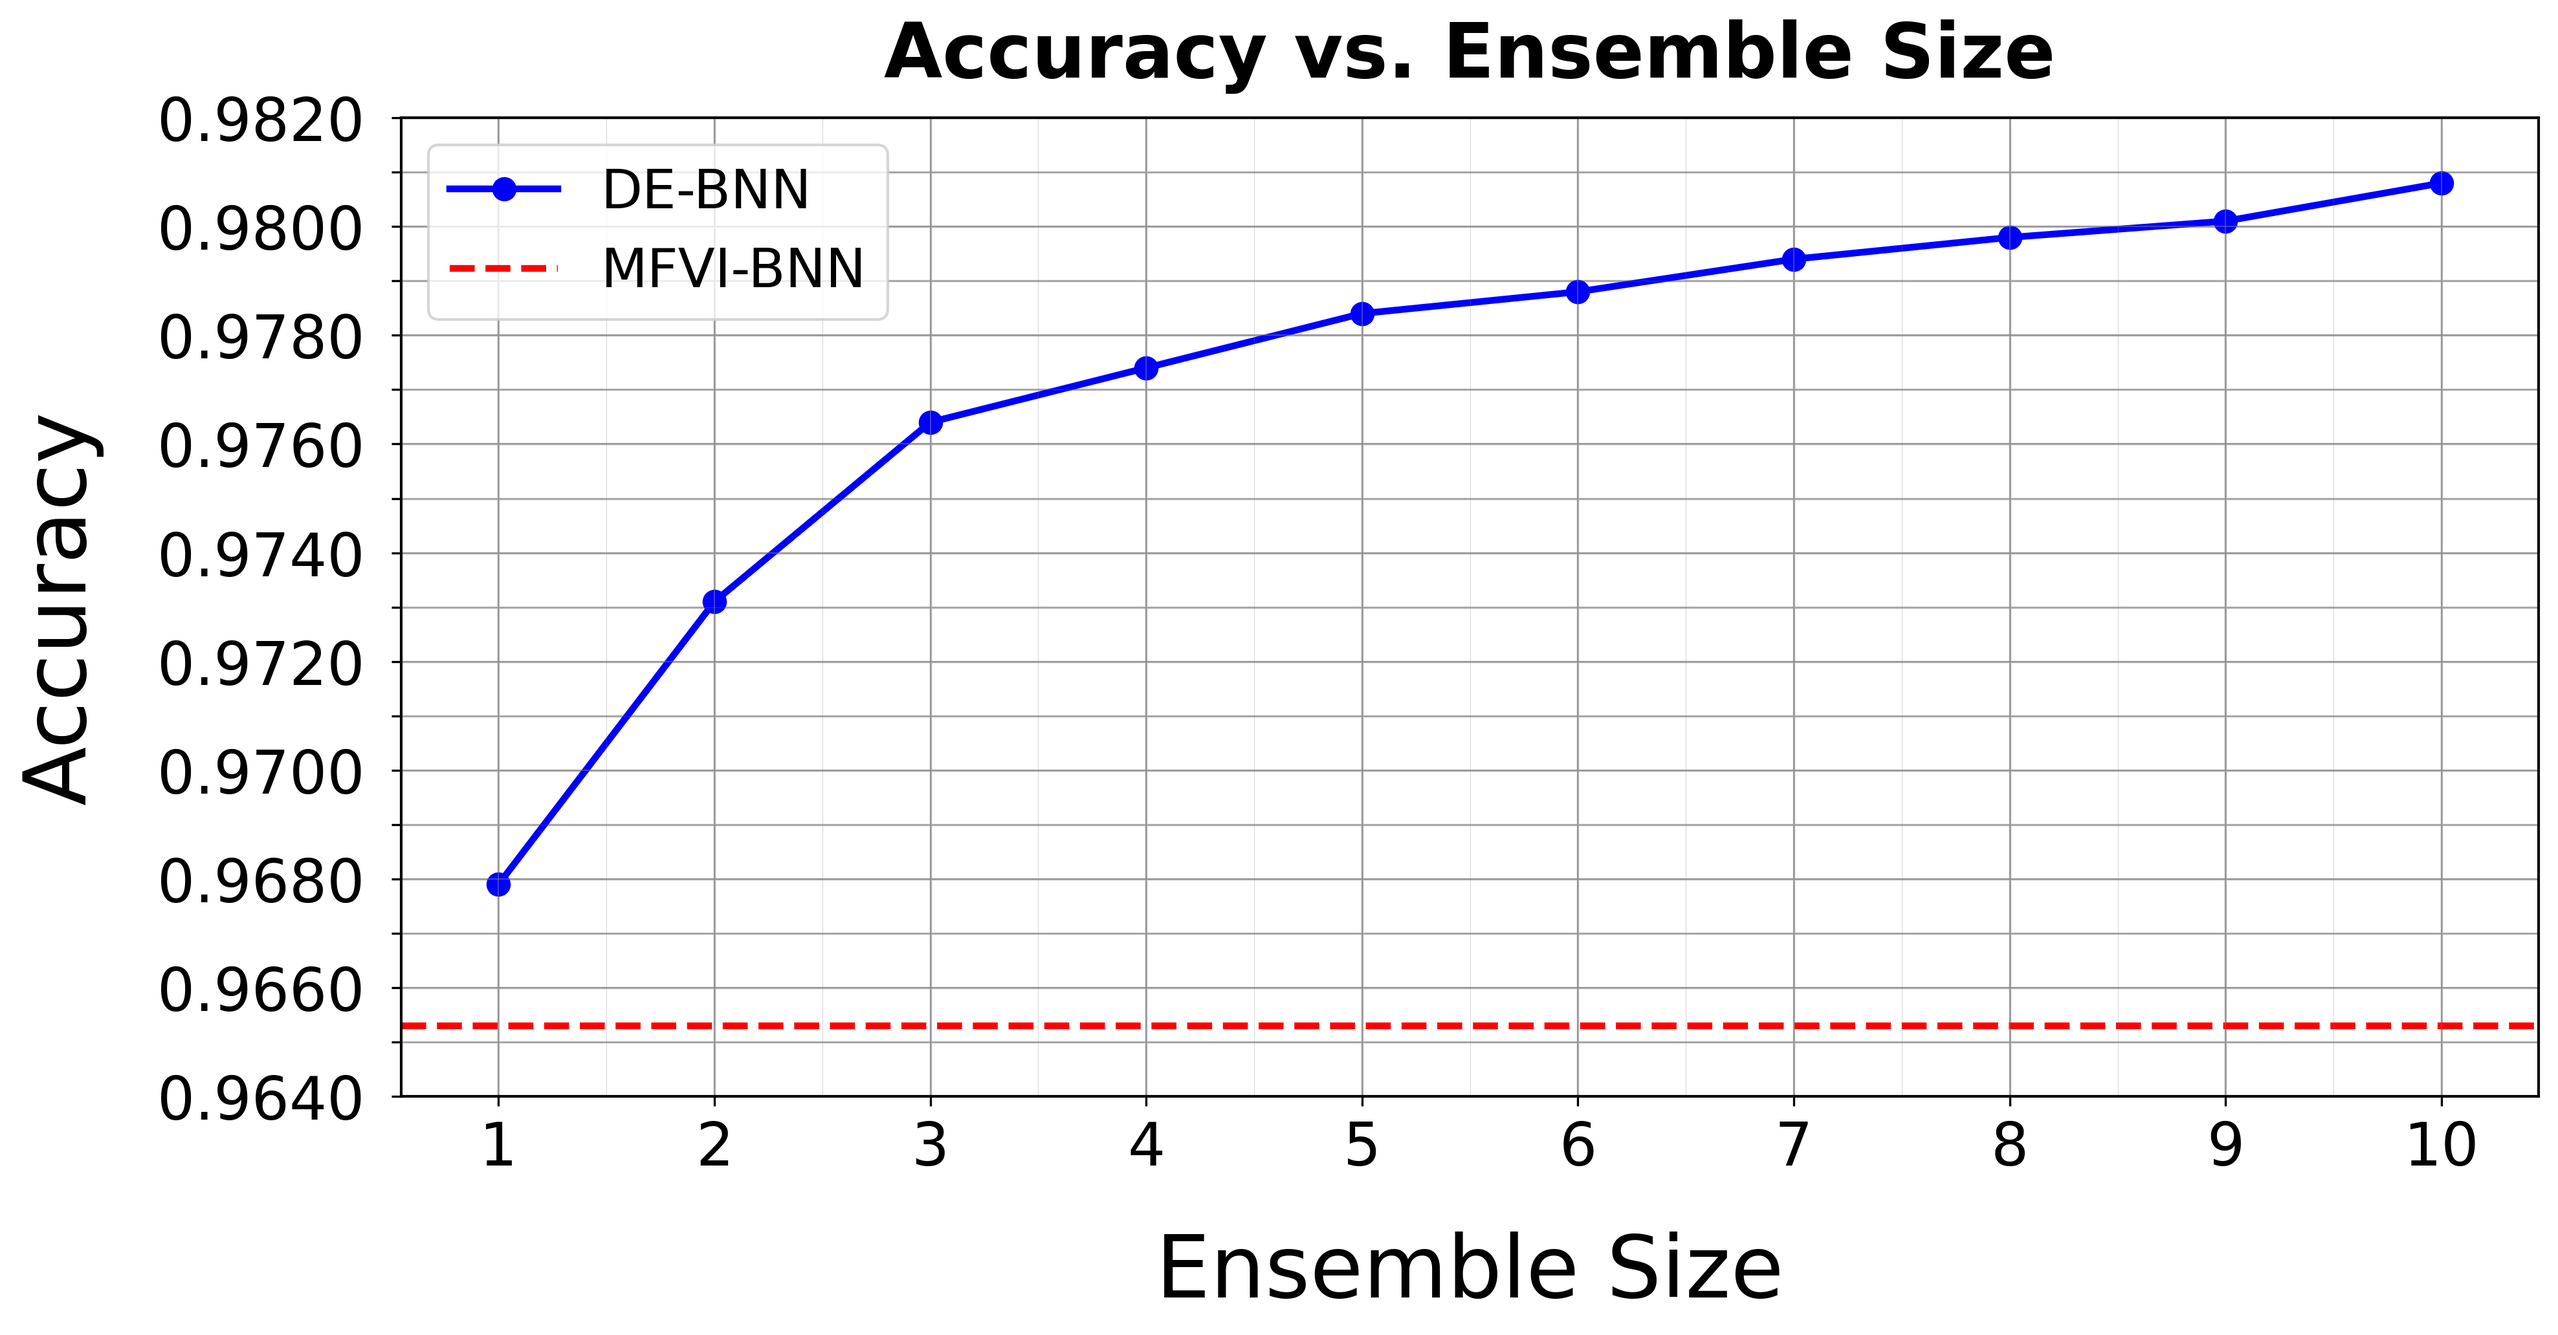
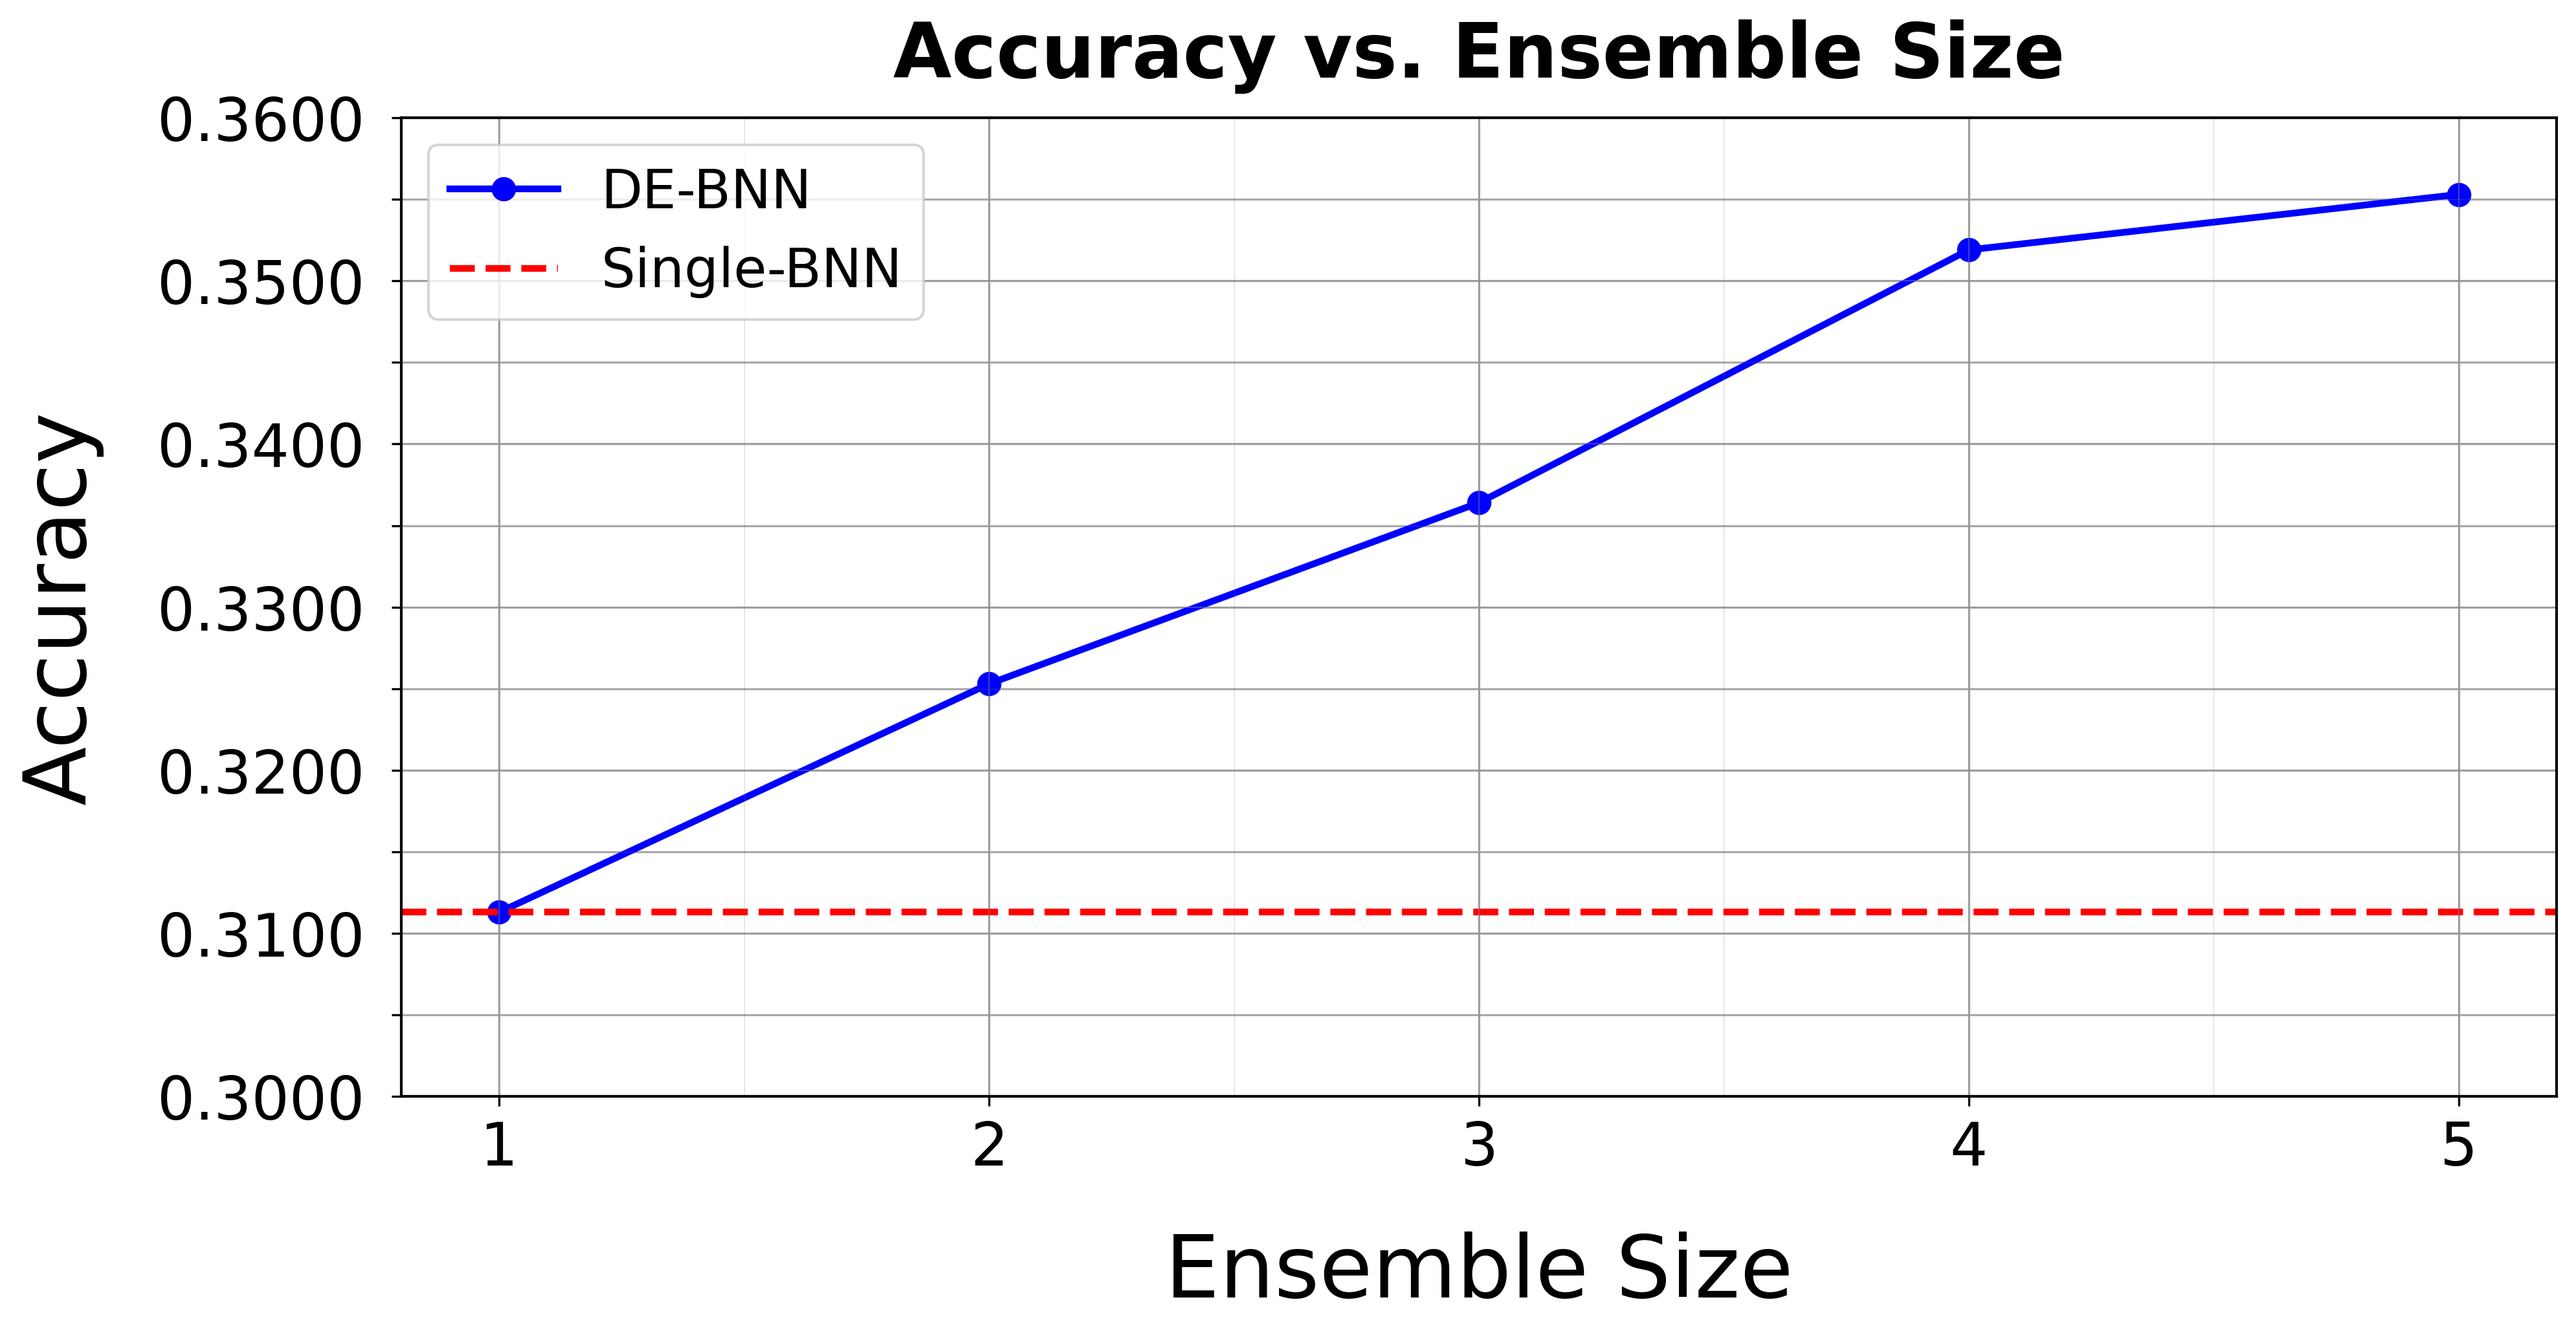
Changes

diff --git a/plots/Plots_main.py b/plots/Plots_main.py
@@ -3,7 +3,13 @@ from ConvolutionalBNN_Model import ConvolutionalBNN
 from sklearn.model_selection import train_test_split
 from sklearn.metrics import accuracy_score
 import pandas as pd
+import time
 from matplotlib import pyplot as plt
+
+seed = 42
+random.seed(seed)
+np.random.seed(seed)
+tf.random.set_seed(seed)
 
 #%% Angepasste Klasse für großes BNN
 class BigConvolutionalBNN(ConvolutionalBNN):
@@ -88,32 +94,62 @@ def evaluate_model(y_true, y_proba, num_classes=10):
         "ECE": ece_val
     }
 
-#%% Load and prepare MNIST
-(x_train_full, y_train_full), (x_test, y_test) = tf.keras.datasets.mnist.load_data()
+#%% Load MNIST or CIFAR-10 and apply preprocessing
+(x_train_full, y_train_full), (x_test, y_test) = tf.keras.datasets.cifar10.load_data()
+# (x_train_full, y_train_full), (x_test, y_test) = tf.keras.datasets.mnist.load_data()  # Uncomment if using MNIST
+
+# Normalize pixel values
 x_train_full = x_train_full.astype("float32") / 255.0
 x_test = x_test.astype("float32") / 255.0
-x_train_full = x_train_full[..., np.newaxis]
-x_test = x_test[..., np.newaxis]
+
+# Detect dataset type based on image shape and adjust channels
+if x_train_full.shape[1:] == (28, 28):  # MNIST
+    x_train_full = x_train_full[..., np.newaxis]
+    x_test = x_test[..., np.newaxis]
+    input_shape = (28, 28, 1)
+elif x_train_full.shape[1:] == (32, 32, 3):  # CIFAR-10
+    input_shape = (32, 32, 3)
+else:
+    raise ValueError("Unrecognized dataset shape: {}".format(x_train_full.shape[1:]))
+
+# Flatten labels
 y_train_full = y_train_full.flatten()
 y_test = y_test.flatten()
 
-x_train, x_val, y_train, y_val = train_test_split(x_train_full, y_train_full, test_size=0.1, random_state=42)
-input_shape = (28, 28, 1)
-num_classes = 10
+# Split into train and validation sets
+x_train, x_val, y_train, y_val = train_test_split(x_train_full, y_train_full, test_size=0.2, random_state=seed)
+num_classes = len(np.unique(y_train_full))
 
-#%% Train MFVI-BNN
+"""print("\nTraining Single-BNN:")
+single_bnn = ConvolutionalBNN(input_shape, num_classes, len(x_train))
+single_bnn.compile()
+single_bnn.fit(x_train, y_train, validation_data=(x_val, y_val), epochs=10, batch_size=64)"""
+
+"""#%% Train MFVI-BNN
 print("\nTraining Large BNN-VI:")
 bnn_big = BigConvolutionalBNN(input_shape, num_classes, len(x_train))
 bnn_big.compile()
-bnn_big.fit(x_train, y_train, validation_data=(x_val, y_val), epochs=2, batch_size=64)
+bnn_big.fit(x_train, y_train, validation_data=(x_val, y_val), epochs=20, batch_size=64)"""
+
+"""start1 = time.time()
+bnn_big.fit(x_train, y_train, validation_data=(x_val, y_val), epochs=1, batch_size=64)
+print("Time elapsed:", time.time() - start1)
+
+single_ensemble = ConvolutionalBNN(input_shape, num_classes, len(x_train))
+single_ensemble.compile()
+
+start2 = time.time()
+single_ensemble.fit(x_train, y_train, validation_data=(x_val, y_val), epochs=1)
+print("Time elapsed:", time.time() - start2)"""
+
 
 #%% Train DE-BNN
-ensemble = train_deep_ensemble(x_train, y_train, x_val, y_val, input_shape, num_classes, n_models=10)
+ensemble = train_deep_ensemble(x_train, y_train, x_val, y_val, input_shape, num_classes, n_models=5)
 
 #%% Evaluate both models
-print("\nEvaluating Large BNN-VI")
-y_proba_big = bnn_big.predict_proba(x_test)
-results_big = evaluate_model(y_test, y_proba_big)
+"""print("\nEvaluating Single-BNN")
+y_proba_single = ensemble[0].predict_proba(x_test)
+results_single = evaluate_model(y_test, y_proba_single)"""
 
 print("\nEvaluating DE-BNN")
 y_proba_de = ensemble_predict_proba(ensemble, x_test)
@@ -121,7 +157,7 @@ results_de = evaluate_model(y_test, y_proba_de)
 
 #%% Print comparison
 results_df = pd.DataFrame({
-    "MFVI-BNN": results_big,
+    """"Single-BNN": results_single,"""
     "DE-BNN": results_de
 })
 print("\nComparison of Evaluation Metrics:")
@@ -144,30 +180,30 @@ for k in range(1, len(ensemble) + 1):
 df_ensemble_metrics = pd.DataFrame(results_per_size)
 print(df_ensemble_metrics)
 
-def plot_ensemble_metrics(df, mfvi_reference):
+def plot_ensemble_metrics(ensemble, single):
     """
-    Plots evaluation metrics vs. ensemble size from a DataFrame and compares them to a fixed MFVI-BNN baseline.
+    Plots evaluation metrics vs. ensemble size from a DataFrame and compares them to a fixed BNN baseline.
 
     Parameters:
     -----------
-    df : pd.DataFrame
+    ensemble : pd.DataFrame
         Must contain columns:
         - "Ensemble Size"
         - "Accuracy", "NLL", "Brier Score", "Predictive Entropy", "ECE"
 
-    mfvi_reference : dict
-        Reference metric values from a single MFVI-BNN model. Keys must match column names in df.
+    single : dict
+        Reference metric values from a single BNN model. Keys must match column names in df.
     """
-    ensemble_sizes = df["Ensemble Size"].tolist()
+    ensemble_sizes = ensemble["Ensemble Size"].tolist()
 
     # Automatically detect metric columns (exclude "Ensemble Size")
-    metric_columns = [col for col in df.columns if col != "Ensemble Size"]
+    metric_columns = [col for col in ensemble.columns if col != "Ensemble Size"]
 
     for metric_name in metric_columns:
-        values = df[metric_name].tolist()
+        values = ensemble[metric_name].tolist()
         fig, ax = plt.subplots(figsize=(12, 6))
         ax.plot(ensemble_sizes, values, marker='o', color='blue', label='DE-BNN', linewidth=2.5, markersize=8)
-        ax.axhline(y=mfvi_reference[metric_name], color='red', linestyle='--', label='MFVI-BNN', linewidth=2.5)
+        ax.axhline(y=single[metric_name], color='red', linestyle='--', label='Single-BNN', linewidth=2.5)
         ax.set_xlabel("Ensemble Size")
         ax.set_ylabel(metric_name)
         ax.set_title(f"{metric_name} vs. Ensemble Size")
@@ -183,4 +219,4 @@ def plot_ensemble_metrics(df, mfvi_reference):
 
         plt.show()
 
-plot_ensemble_metrics(df_ensemble_metrics, results_big)
+plot_ensemble_metrics(df_ensemble_metrics, df_ensemble_metrics.iloc[0,:])

diff --git a/ConvolutionalBNN_Model.py b/ConvolutionalBNN_Model.py
@@ -25,9 +25,17 @@ class ConvolutionalBNN:
         Build a convolutional BNN using Flipout layers and KL divergence regularization.
         """
 
+        data_augmentation = tfk.Sequential([
+            tfk.layers.RandomRotation(0.1),
+            tfk.layers.RandomTranslation(0.1, 0.1),
+        ])
+
         kl = lambda q, p, _: tfp.distributions.kl_divergence(q, p) * self.kl_weight
 
         model = tfk.Sequential([
+
+            data_augmentation,
+
             tfpl.Convolution2DFlipout(filters = 32, kernel_size = (3, 3), activation='relu',
                                       input_shape=self.input_shape, kernel_divergence_fn=kl),
             tfk.layers.MaxPooling2D(pool_size=(2, 2)),

diff --git a/plots/Custom_plot_style.py b/plots/Custom_plot_style.py
@@ -18,10 +18,10 @@ def apply_custom_theme(ax):
  # Linien an den Zwischenpositionen (nur eine pro Intervall)
  for i in range(len(yticks) - 1):
   y_mid = (yticks[i] + yticks[i + 1]) / 2
-  ax.axhline(y=y_mid, color='gray', linewidth=0.2, linestyle='-', alpha=0.4)
+  ax.axhline(y=y_mid, color='gray', linewidth=0.2, linestyle='-', alpha=0.2)
  for i in range(len(xticks) - 1):
   x_mid = (xticks[i] + xticks[i + 1]) / 2
-  ax.axvline(x=x_mid, color='gray', linewidth=0.2, linestyle='-', alpha=0.4)
+  ax.axvline(x=x_mid, color='gray', linewidth=0.2, linestyle='-', alpha=0.2)
 
  # Formatierung wie gehabt
  ax.set_xlabel(ax.get_xlabel() or "x-axis", fontsize=32, labelpad=20)
